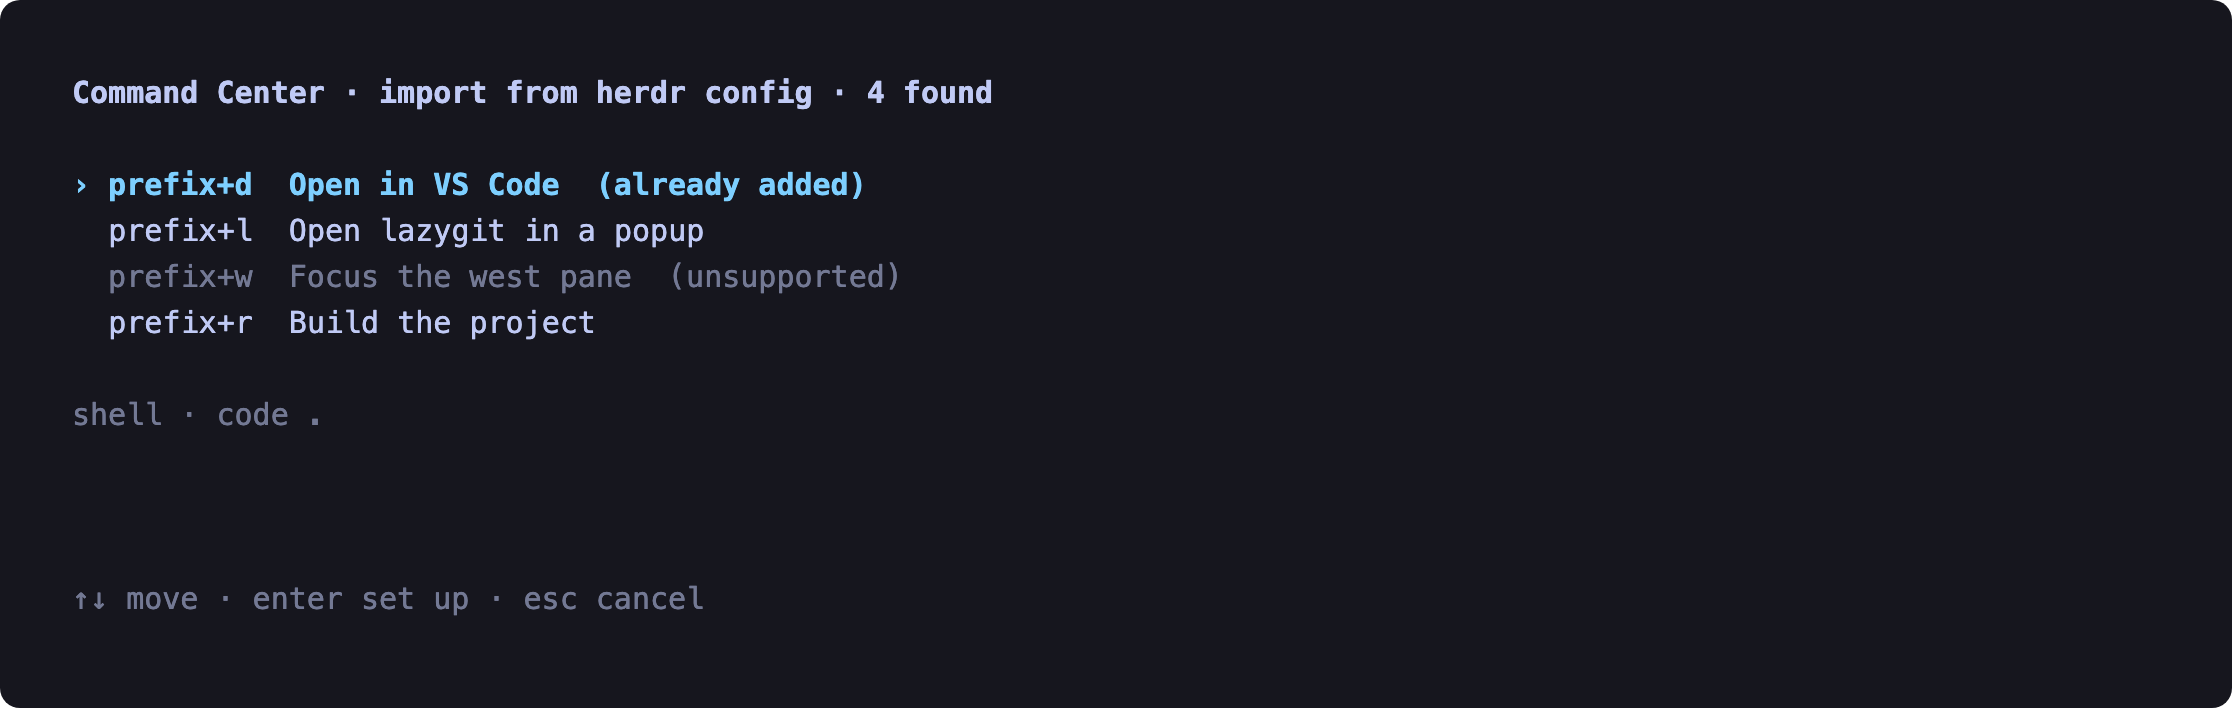
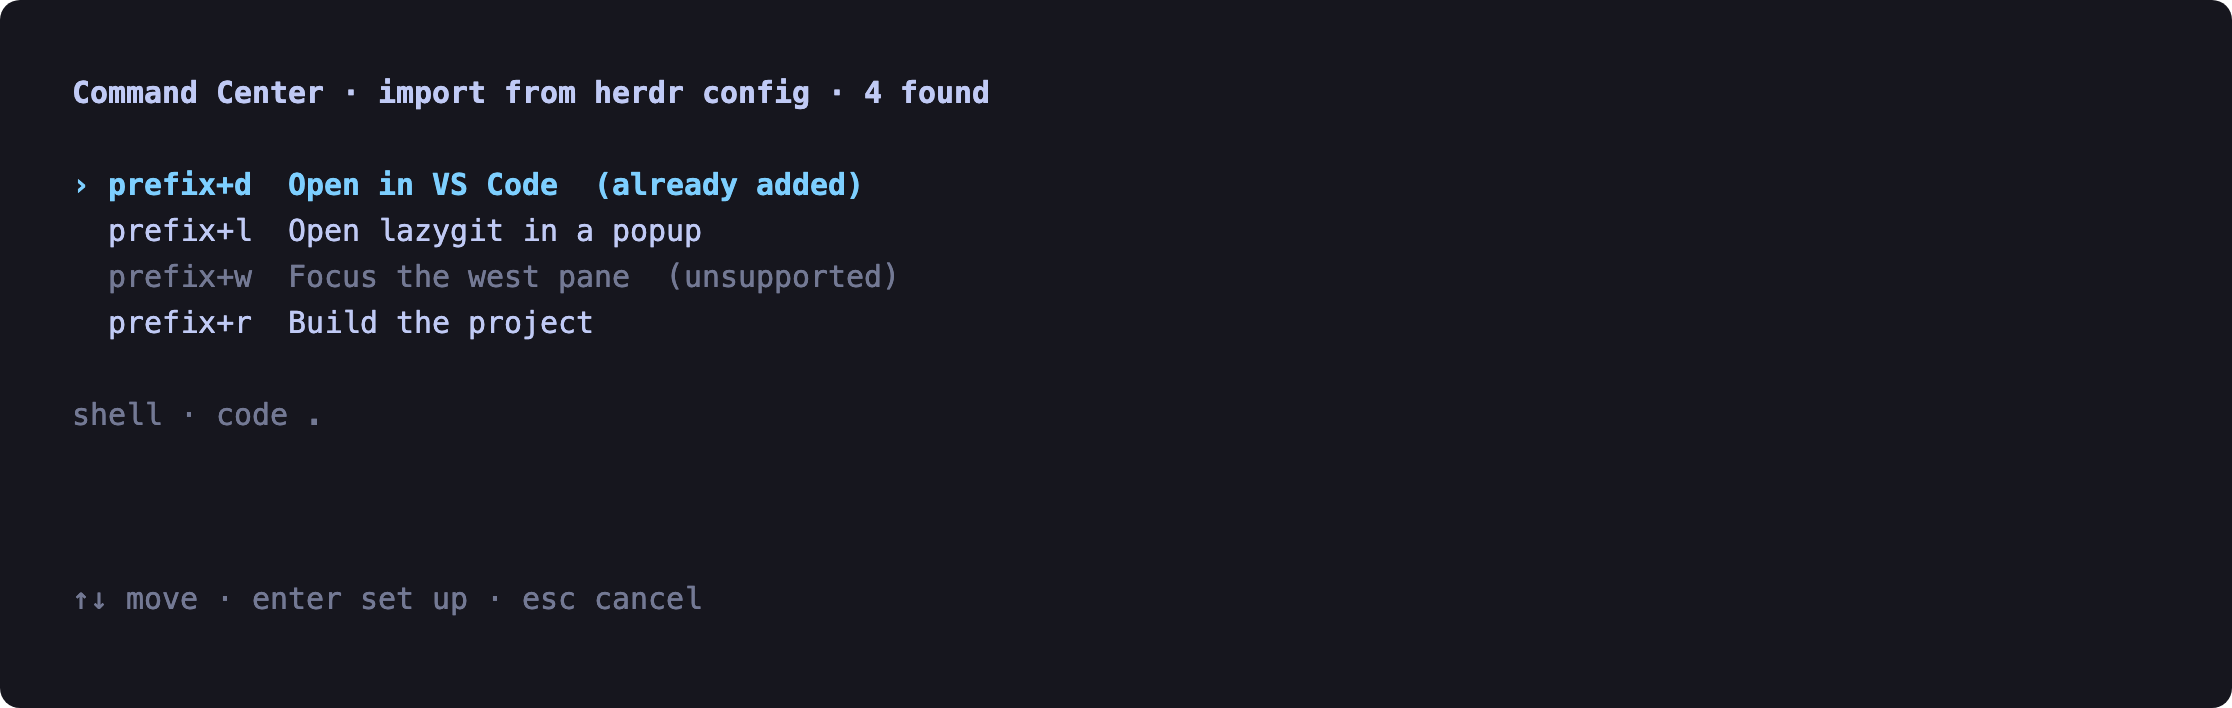
docs: stop the screenshots faking a misaligned grid
The grid columns drifted in the images wherever a row contained Korean. That was
the screenshot renderer, not the plugin: a browser's CJK fallback font does not
advance exactly two cells per syllable, so everything after a Korean label shifted
and the picture showed a misalignment a real terminal never has.

Each text run is now pinned to exactly the cell span it occupies, so the image
matches what the terminal draws.

diff --git a/tools/screenshots.py b/tools/screenshots.py
@@ -362,6 +362,14 @@ def render(frame, cols=88):
                 if style['dim']:
                     attrs.append(f'opacity="{DIM_OPACITY}"')
                 attrs.append('xml:space="preserve"')
+                # Pin the run to exactly the cells it occupies. Without this the
+                # browser's CJK fallback font does not advance exactly two cells
+                # per syllable, so everything after a Korean label drifts and the
+                # picture shows a misalignment the real terminal does not have.
+                cells = display_width(text)
+                if cells:
+                    attrs.append(f'textLength="{cells * CELL_W:.2f}"')
+                    attrs.append('lengthAdjust="spacingAndGlyphs"')
                 parts.append(f'<text {" ".join(attrs)}>{html.escape(text)}</text>')
             col += display_width(text)
     if caret is not None:
